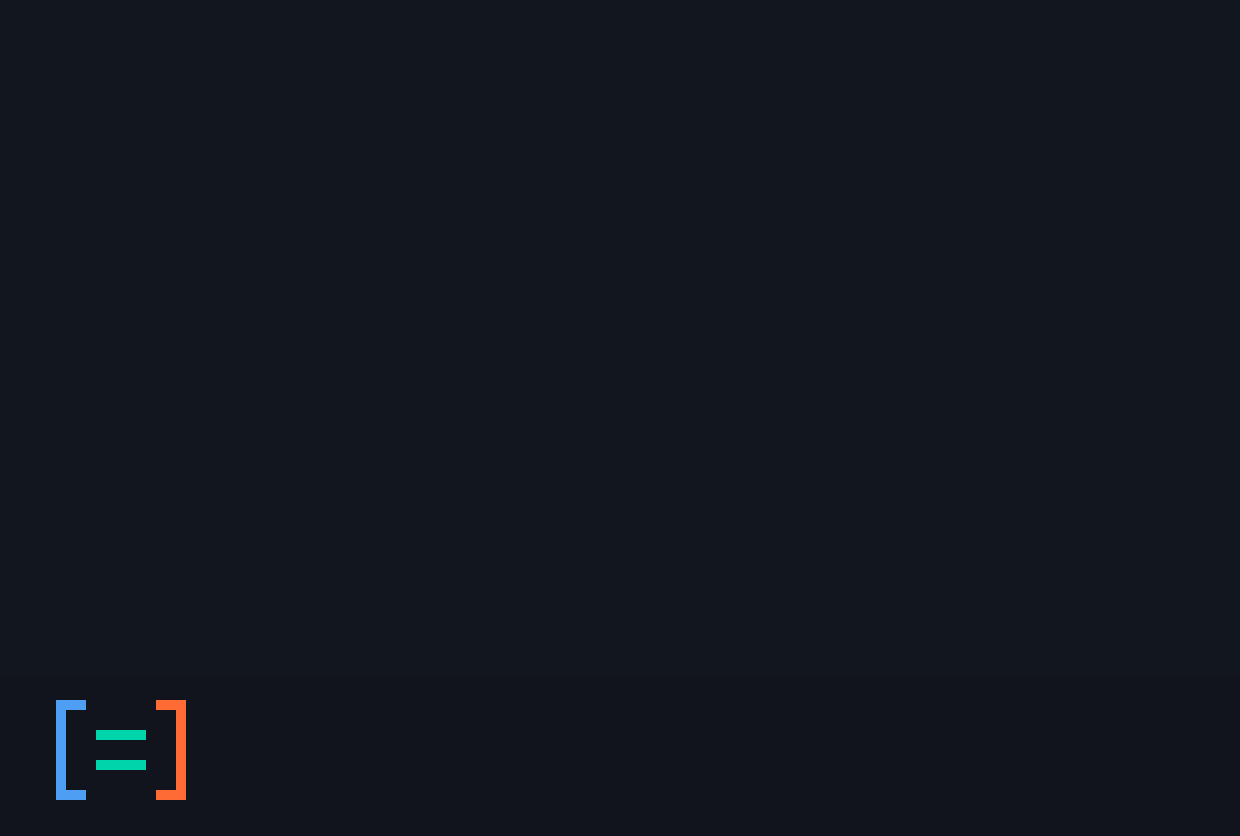
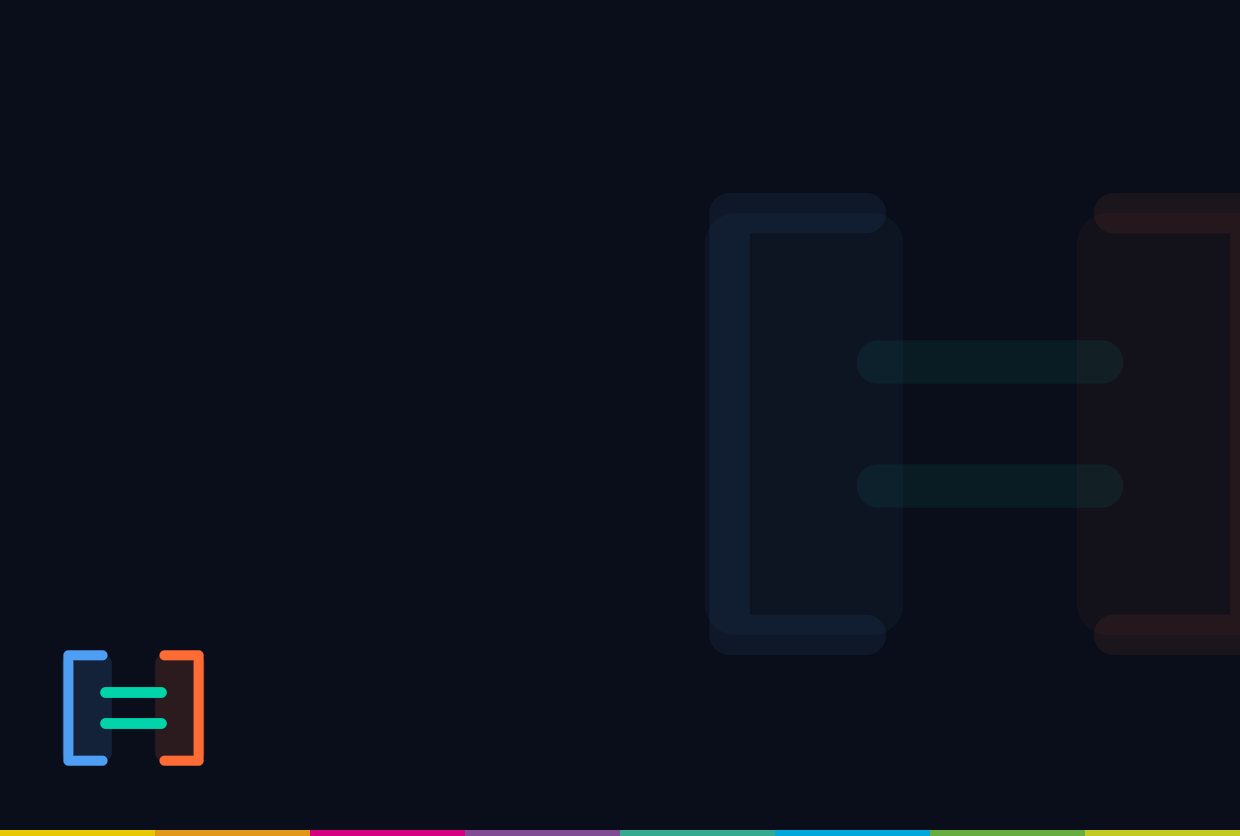
feat(pkg): real brand artwork + rewritten installer panes
Installer background (light + dark) composed from the official tainer
mark geometry on the site's bg tokens with the Cyber5 spectrum
ribbon; welcome/conclusion panes rebuilt with the brand voice, inline
mark, terminal-styled quickstart, and utm-tagged links. (Previously
generated but left uncommitted.)

Changed region(s): [[0.0, 0.9952, 1.0, 1.0], [0.0306, 0.7775, 0.1839, 0.9641]]

diff --git a/packaging/installer/resources/welcome.html b/packaging/installer/resources/welcome.html
@@ -3,29 +3,72 @@
 <head>
 <meta charset="utf-8">
 <style>
-  body { font-family: -apple-system, "Helvetica Neue", sans-serif;
-         color: #1a2233; margin: 16px 20px; font-size: 13px; line-height: 1.5; }
-  @media (prefers-color-scheme: dark) { body { color: #dce6f8; } }
-  h1 { font-size: 20px; margin: 0 0 2px; }
-  .mark b { font-weight: 700; }
-  .mk-blue { color: #4E9EF4; } .mk-teal { color: #00D4AA; } .mk-orange { color: #FF6B35; }
-  .tag { color: #7a8aaa; margin: 0 0 14px; }
-  ul { padding-left: 18px; margin: 8px 0; }
-  li { margin: 3px 0; }
-  a { color: #2563EB; }
+  :root { color-scheme: light dark; }
+  html, body {
+    margin: 0; padding: 0;
+    background: #F5F7FA;                 /* site --bg-light */
+  }
+  @media (prefers-color-scheme: dark) {
+    html, body { background: #11151F; }  /* site --bg-surface */
+  }
+  body {
+    font-family: -apple-system, "SF Pro Text", "Helvetica Neue", sans-serif;
+    color: #1A1F2D; font-size: 13px; line-height: 1.55;
+    padding: 18px 22px;
+  }
+  @media (prefers-color-scheme: dark) { body { color: #DCE6F8; } }
+
+  /* --- brand header: official mark + wordmark --- */
+  .brand { display: flex; align-items: center; gap: 10px; margin-bottom: 4px; }
+  .brand svg { width: 44px; height: 35px; flex: none; }
+  .word {
+    font-family: ui-monospace, "SF Mono", Menlo, monospace;
+    font-weight: 700; font-size: 22px; letter-spacing: -0.8px;
+    color: #1A1F2D;
+  }
+  @media (prefers-color-scheme: dark) { .word { color: #DCE6F8; } }
+  .word .dev { color: #009E80; font-weight: 700; }
+  @media (prefers-color-scheme: dark) { .word .dev { color: #00D4AA; } }
+
+  .tag { color: #5A6478; margin: 0 0 16px; }
+  @media (prefers-color-scheme: dark) { .tag { color: #8A93A6; } }
+
+  /* --- terminal-style quickstart --- */
+  .term {
+    font-family: ui-monospace, "SF Mono", Menlo, monospace;
+    font-size: 12px; line-height: 1.7;
+    background: #0A0E1A; color: #DCE6F8;
+    border-radius: 8px; padding: 12px 14px; margin: 10px 0 14px;
+  }
+  .term .p { color: #00D4AA; }        /* prompt */
+  .term .c { color: #8A93A6; }        /* comment */
+  a { color: #2563EB; text-decoration: none; }
   @media (prefers-color-scheme: dark) { a { color: #4E9EF4; } }
 </style>
 </head>
 <body>
-  <h1><span class="mark"><b class="mk-blue">[</b><b class="mk-teal">=</b><b class="mk-orange">]</b></span> tainer</h1>
+  <div class="brand">
+    <svg viewBox="0 0 100 80" xmlns="http://www.w3.org/2000/svg" aria-hidden="true">
+      <rect x="4" y="6" width="32" height="68" rx="5" fill="rgba(78,158,244,0.14)"/>
+      <rect x="64" y="6" width="32" height="68" rx="5" fill="rgba(255,107,53,0.14)"/>
+      <path d="M30,6 L8,6 L8,74 L30,74" fill="none" stroke="#4E9EF4" stroke-width="6.5" stroke-linecap="round" stroke-linejoin="round"/>
+      <path d="M70,6 L92,6 L92,74 L70,74" fill="none" stroke="#FF6B35" stroke-width="6.5" stroke-linecap="round" stroke-linejoin="round"/>
+      <line x1="32" y1="30" x2="68" y2="30" stroke="#00D4AA" stroke-width="7" stroke-linecap="round"/>
+      <line x1="32" y1="50" x2="68" y2="50" stroke="#00D4AA" stroke-width="7" stroke-linecap="round"/>
+    </svg>
+    <span class="word">tainer<span class="dev">.dev/</span></span>
+  </div>
   <p class="tag">Instant local dev sites — real HTTPS domains, zero config.</p>
-  <p>This installer sets up the tainer CLI and its engine. After it finishes,
-     creating your first site is three commands:</p>
-  <ul>
-    <li><code>tainer init wp mysite</code></li>
-    <li><code>tainer start</code></li>
-    <li>open <code>https://mysite.tainer.me</code> — that's it.</li>
-  </ul>
+
+  <p>This installer sets up the tainer CLI and its engine.
+     Your first site is three commands away:</p>
+
+  <div class="term">
+    <div><span class="p">❯</span> tainer init wp mysite</div>
+    <div><span class="p">❯</span> tainer start</div>
+    <div><span class="c"># open https://mysite.tainer.me — that's it.</span></div>
+  </div>
+
   <p>Docs &amp; guides: <a href="https://tainer.dev">tainer.dev</a></p>
 </body>
 </html>

diff --git a/packaging/installer/resources/conclusion.html b/packaging/installer/resources/conclusion.html
@@ -3,22 +3,49 @@
 <head>
 <meta charset="utf-8">
 <style>
-  body { font-family: -apple-system, "Helvetica Neue", sans-serif;
-         color: #1a2233; margin: 16px 20px; font-size: 13px; line-height: 1.5; }
-  @media (prefers-color-scheme: dark) { body { color: #dce6f8; } }
-  h1 { font-size: 20px; margin: 0 0 10px; }
-  .mk-blue { color: #4E9EF4; } .mk-teal { color: #00D4AA; } .mk-orange { color: #FF6B35; }
-  code { background: rgba(127,127,127,.15); padding: 1px 5px; border-radius: 4px; }
-  a { color: #2563EB; }
+  :root { color-scheme: light dark; }
+  html, body { margin: 0; padding: 0; background: #F5F7FA; }
+  @media (prefers-color-scheme: dark) { html, body { background: #11151F; } }
+  body {
+    font-family: -apple-system, "SF Pro Text", "Helvetica Neue", sans-serif;
+    color: #1A1F2D; font-size: 13px; line-height: 1.55;
+    padding: 18px 22px;
+  }
+  @media (prefers-color-scheme: dark) { body { color: #DCE6F8; } }
+  h1 {
+    font-family: ui-monospace, "SF Mono", Menlo, monospace;
+    font-size: 19px; margin: 0 0 12px; letter-spacing: -0.5px;
+  }
+  .ok { color: #009E80; }
+  @media (prefers-color-scheme: dark) { .ok { color: #00D4AA; } }
+  code {
+    font-family: ui-monospace, "SF Mono", Menlo, monospace;
+    background: rgba(127,127,127,.14); padding: 1px 6px; border-radius: 4px;
+  }
+  a { color: #2563EB; text-decoration: none; }
   @media (prefers-color-scheme: dark) { a { color: #4E9EF4; } }
-  .foot { margin-top: 18px; color: #7a8aaa; font-size: 11px; }
+
+  .foot {
+    margin-top: 26px; padding-top: 12px; font-size: 11px;
+    color: #5A6478;
+  }
+  @media (prefers-color-scheme: dark) { .foot { color: #8A93A6; } }
+  .ribbon {
+    height: 4px; border-radius: 2px; margin-bottom: 10px;
+    background: linear-gradient(90deg,
+      #FFDD00, #FAA61A, #EC008C, #8F53A1, #39BB9D, #00B9F2, #72BF44, #D7DF23);
+  }
 </style>
 </head>
 <body>
-  <h1><b class="mk-teal">[✓]</b> Ready when you are</h1>
+  <h1><span class="ok">[✓]</span> Ready when you are</h1>
   <p>tainer is installed. Open a terminal and type <code>tainer</code> —
-     the welcome screen will take it from there.</p>
+     the welcome screen takes it from there.</p>
   <p>Quickstart, guides and troubleshooting: <a href="https://tainer.dev">tainer.dev</a></p>
-  <p class="foot">tainer is a <a href="https://cyber5.io">Cyber5</a> product.</p>
+
+  <div class="foot">
+    <div class="ribbon"></div>
+    tainer is a <a href="https://cyber5.io">Cyber5</a> product.
+  </div>
 </body>
 </html>
